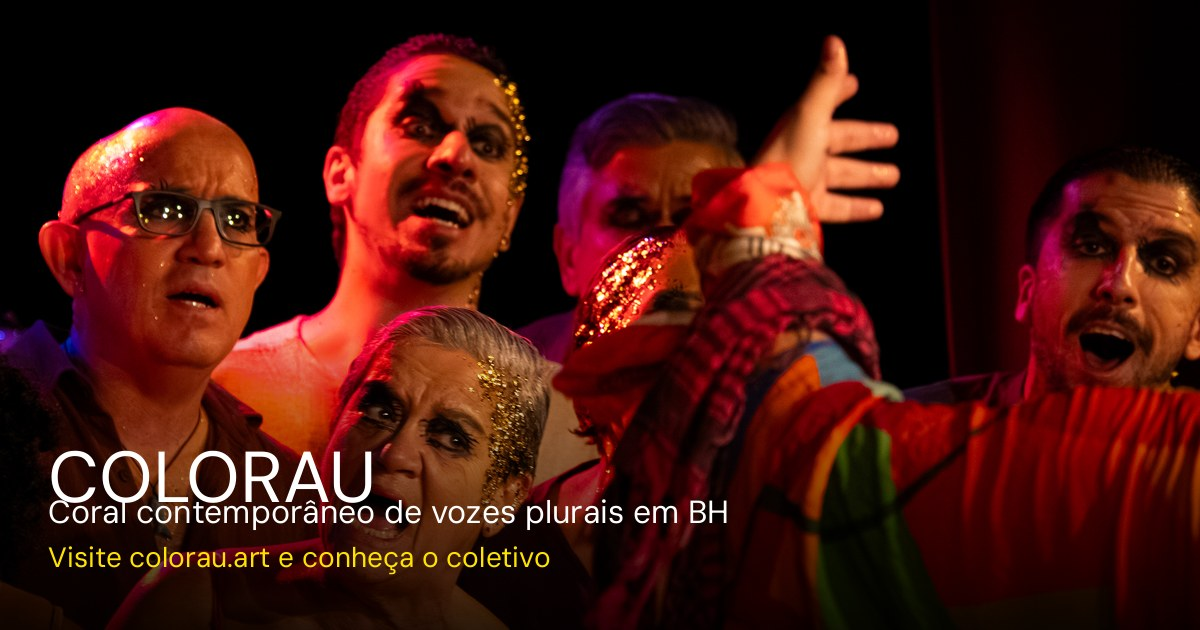
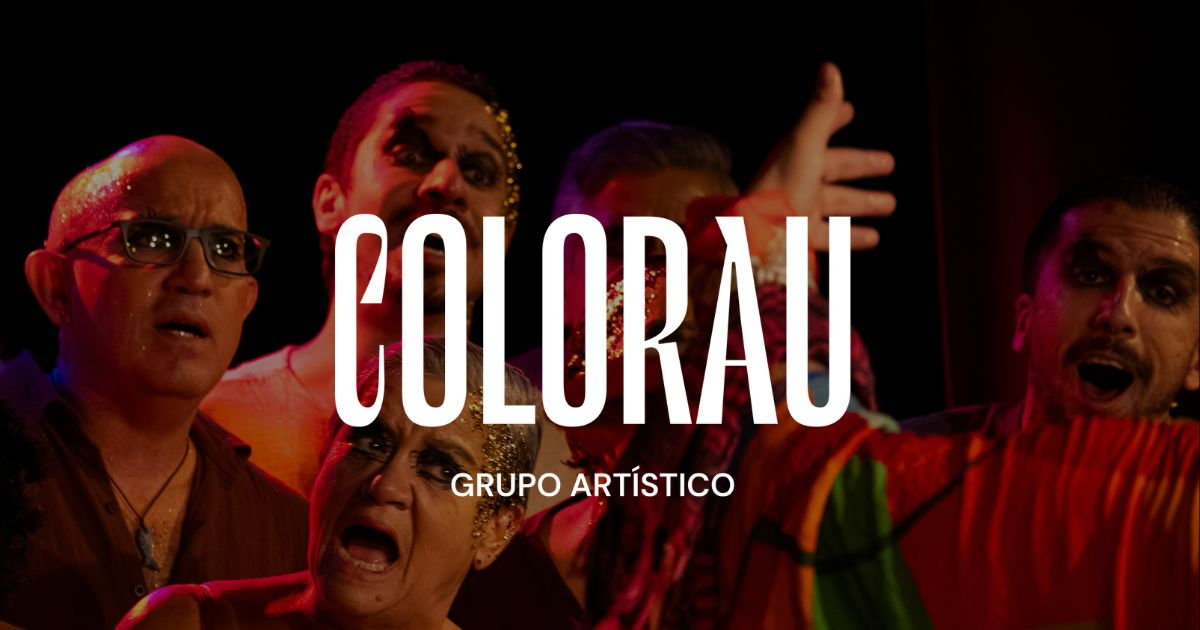
uupdate og

diff --git a/app/layout.tsx b/app/layout.tsx
@@ -58,10 +58,10 @@ export const metadata: Metadata = {
     description: siteDescription,
     images: [
       {
-        url: "/og-thumb.jpg",
+        url: "/og-thumb.png",
         width: 1200,
         height: 630,
-        alt: "COLORAU — coral contemporâneo de vozes plurais em Belo Horizonte; visite colorau.art",
+        alt: "COLORAU — coral contemporâneo em Belo Horizonte; visite colorau.art",
       },
     ],
   },
